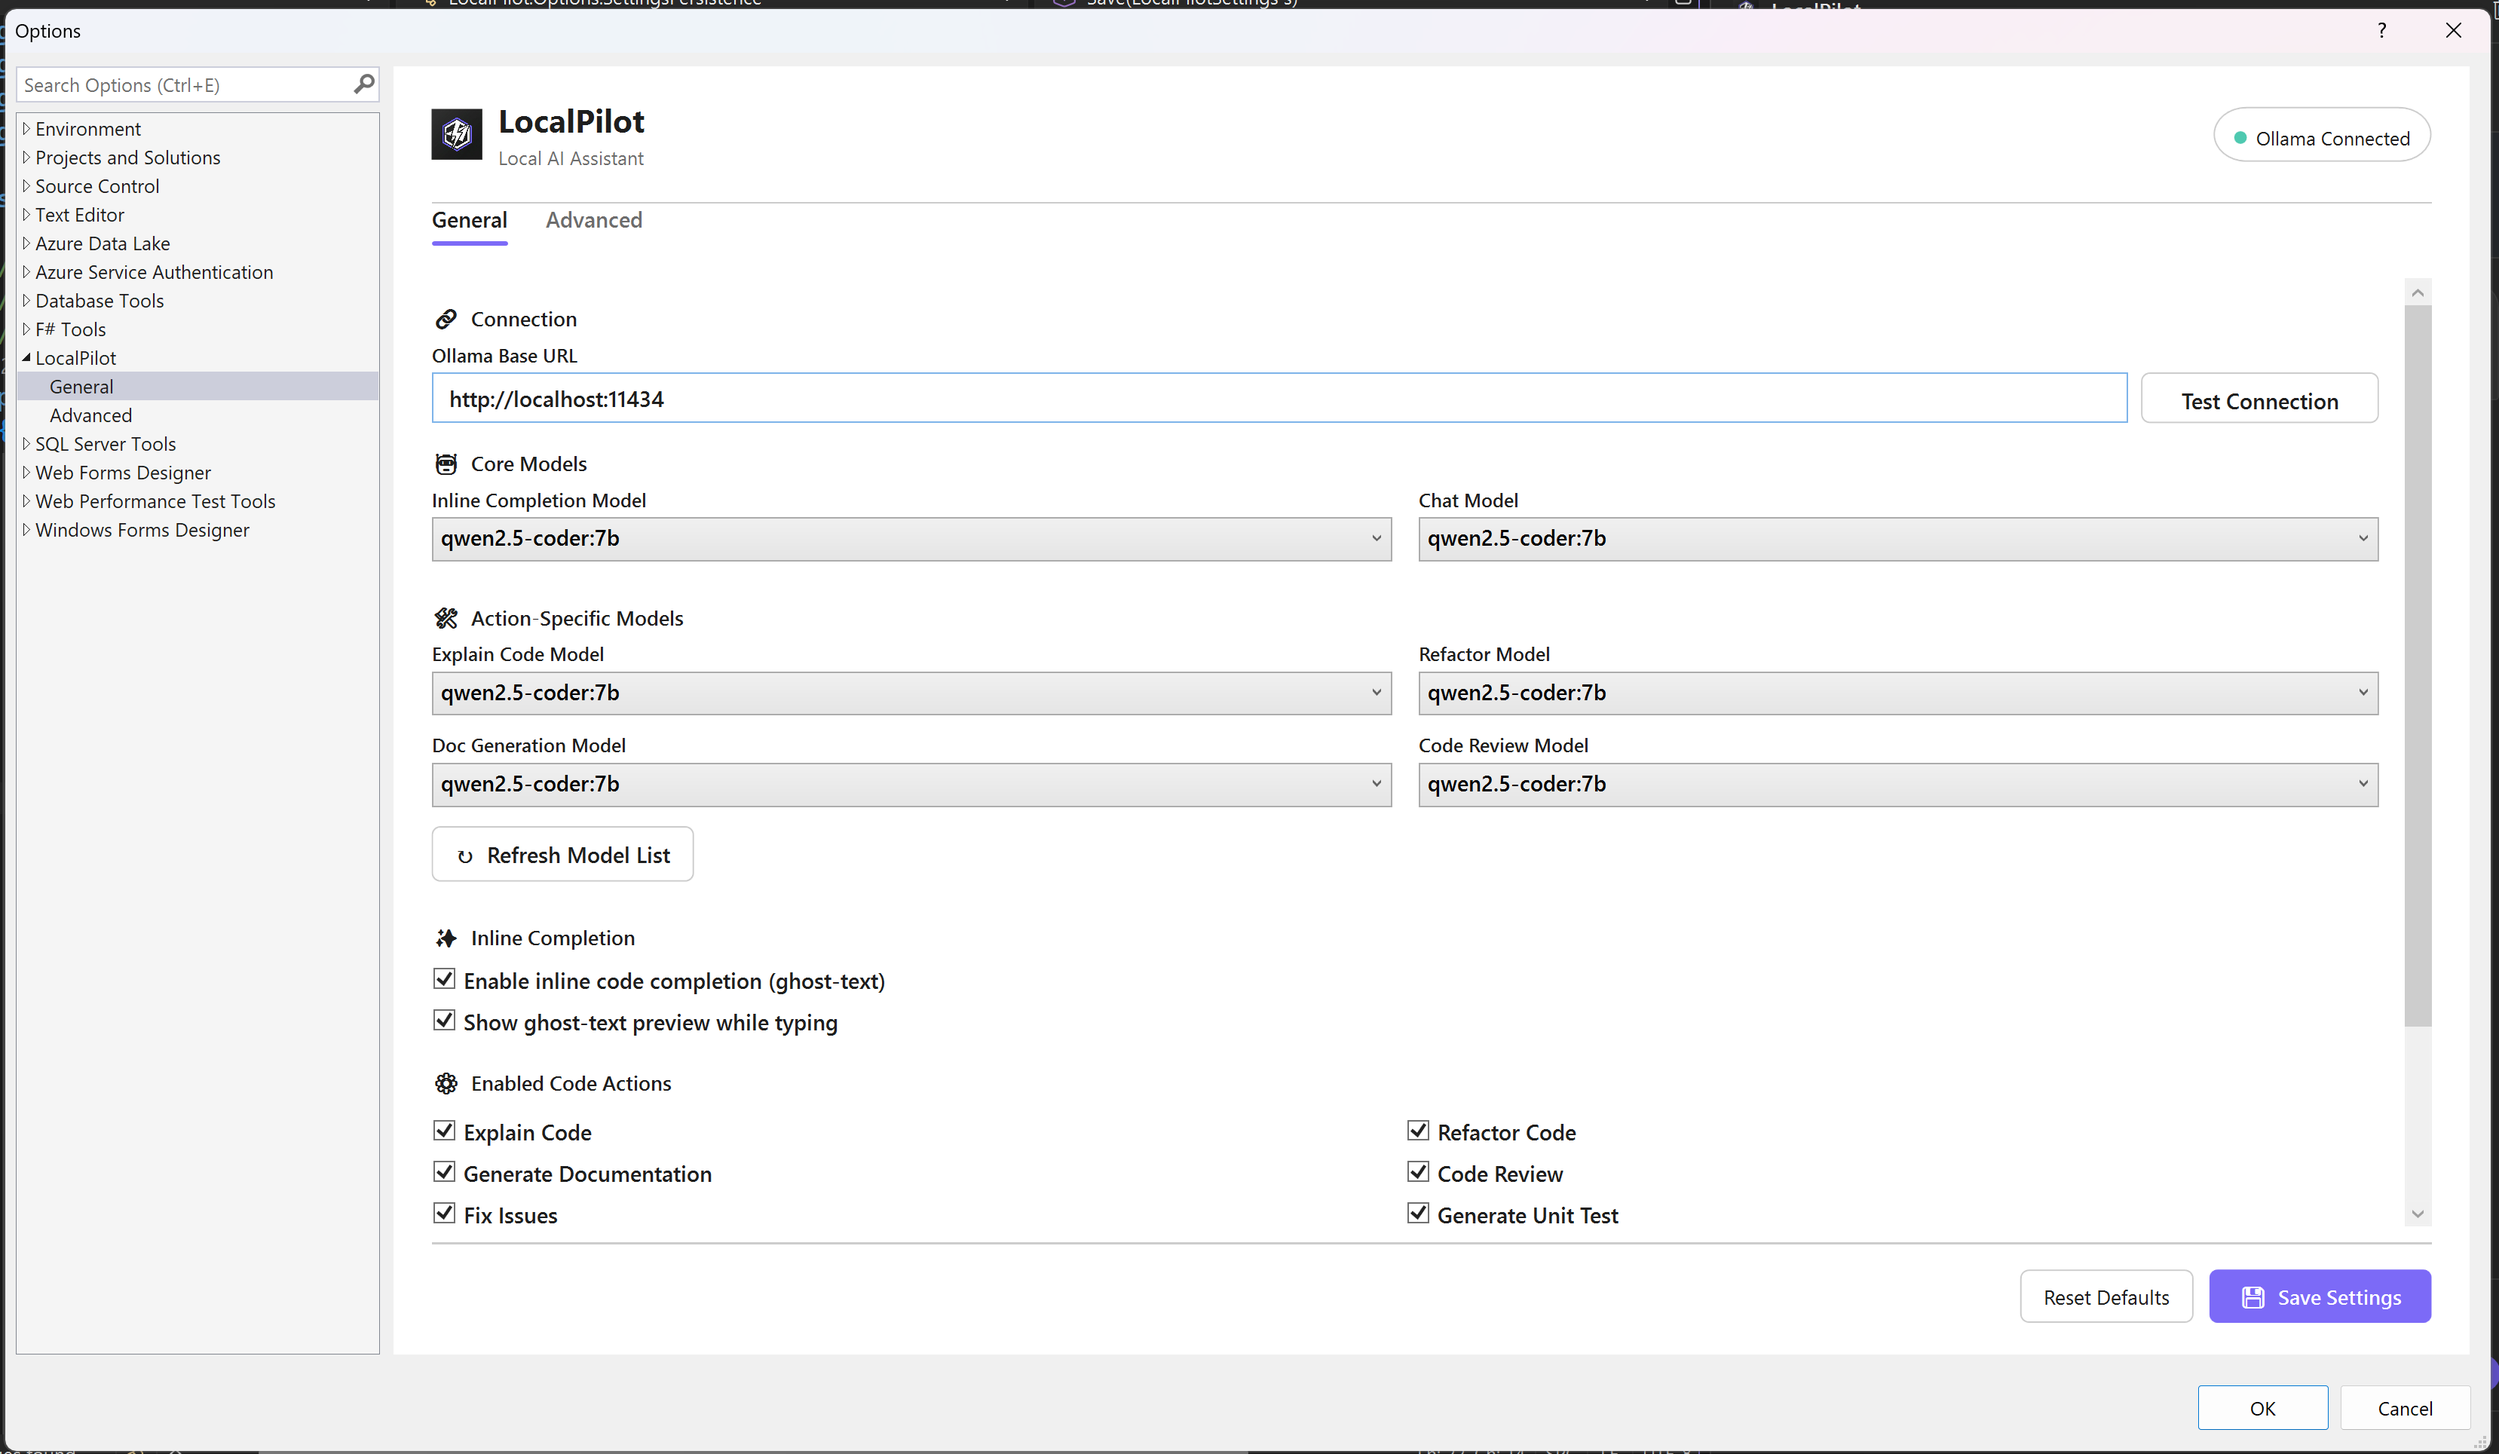
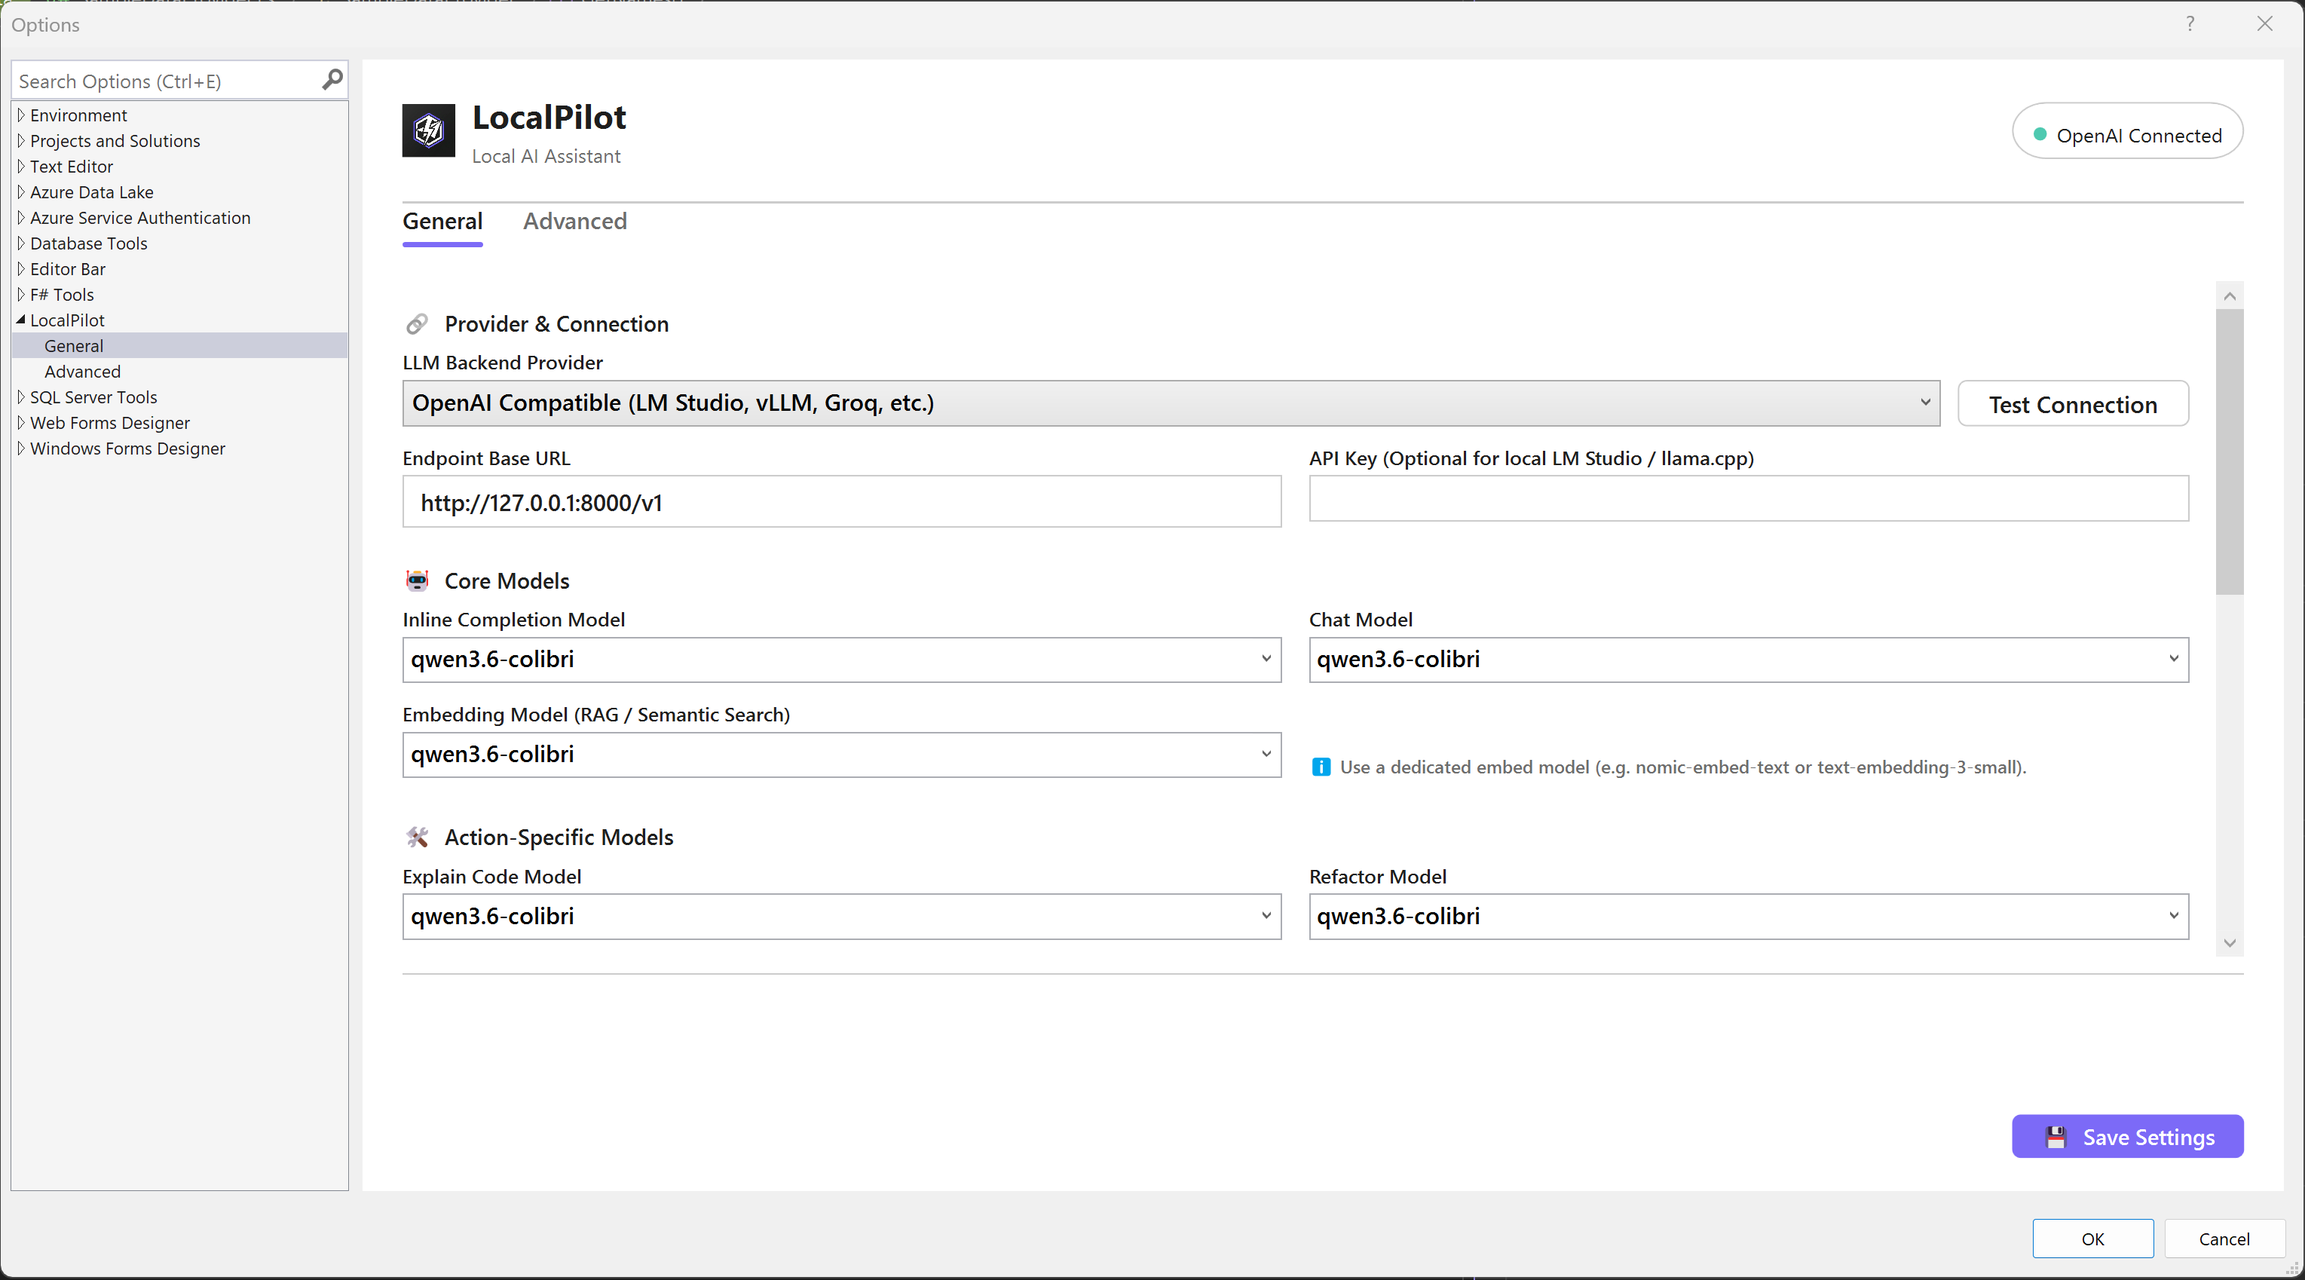
Release notes and other updates

diff --git a/LocalPilot/Properties/AssemblyInfo.cs b/LocalPilot/Properties/AssemblyInfo.cs
@@ -29,5 +29,5 @@ using System.Runtime.InteropServices;
 // You can specify all the values or you can default the Build and Revision Numbers 
 // by using the '*' as shown below:
 // [assembly: AssemblyVersion("1.0.*")]
-[assembly: AssemblyVersion("1.9.5.0")]
-[assembly: AssemblyFileVersion("1.9.5.0")]
+[assembly: AssemblyVersion("2.0.0.0")]
+[assembly: AssemblyFileVersion("2.0.0.0")]

diff --git a/README.md b/README.md
@@ -3,7 +3,7 @@
   <h1>LocalPilot</h1>
   <p align="center">
     <strong>The Privacy-First AI Pair Programmer for Visual Studio.</strong><br />
-    Bringing the power of local LLMs directly into your IDE with Ollama.
+    Bringing local &amp; OpenAI-compatible LLMs (Ollama, LM Studio,  vLLM, llama.cpp, OpenAI) directly into your IDE.
   </p>
 
   <p align="center">
@@ -14,10 +14,10 @@
       <img src="https://img.shields.io/badge/License-MIT-blue.svg" alt="License: MIT" />
     </a>
     <a href="https://ollama.com">
-      <img src="https://img.shields.io/badge/Ollama-Compatible-orange.svg" alt="Ollama Support" />
+      <img src="https://img.shields.io/badge/Ollama_%26_OpenAI_Compatible-orange.svg" alt="Multi-Provider Support" />
     </a>
     <a href="https://visualstudio.microsoft.com/">
-      <img src="https://img.shields.io/badge/Visual_Studio-2022-purple.svg" alt="Visual Studio" />
+      <img src="https://img.shields.io/badge/Visual_Studio-2022%20%2B-purple.svg" alt="Visual Studio" />
     </a>
   </p>
 </div>
@@ -26,7 +26,7 @@
 
 ## 🌟 Overview
 
-**LocalPilot** is a powerful Visual Studio extension that integrates local Large Language Models (LLMs) via [Ollama](https://ollama.com). It provides a seamless, high-performance coding experience without the need for cloud-based subscriptions or data privacy concerns.
+**LocalPilot** is a high-performance Visual Studio extension that integrates local and OpenAI-compatible Large Language Models — including **[Ollama](https://ollama.com)**, **LM Studio**, **vLLM**, **llama.cpp**, and **OpenAI** (`gpt-4o`, `gpt-5`, `o1`/`o3`/`o4`). It delivers inline ghost-text completions, an agentic AI chat panel, inline editor diffs, and native `Ctrl+.` lightbulb actions with full local privacy.
 
 <p align="center">
   <img src="LocalPilot/Assets/Showcase_Mockup.png" width="800" height="450" alt="LocalPilot Showcase" />
@@ -71,7 +71,7 @@
       <h3>✨ Ghost-Text & Performance</h3>
       <ul style="list-style-type: none; padding-left: 0;">
         <li>🚀 <strong>Real-time Suggestions</strong>: Zero-latency inline code completions.</li>
-        <li>🏠 <strong>100% Local</strong>: Your code never leaves your workstation.</li>
+        <li>🏠 <strong>Local-First, Cloud-Optional</strong>: Run 100% offline locally, or connect your own OpenAI-compatible API.</li>
         <li>⚡ <strong>Optimized</strong>: Designed for minimal impact on IDE performance.</li>
       </ul>
     </td>
@@ -84,19 +84,20 @@
 
 ## 🛡 Why LocalPilot?
 
-- **🔒 Absolute Privacy**: Your source code stays on your machine. No telemetry, no cloud hooks, no data leakage. Perfect for enterprise and sensitive projects.
-- **⚡ Zero Latency**: No waiting for cloud API responses. Local inference provides near-instantaneous completions.
-- **💰 One-time Setup, Zero Cost**: No recurring subscriptions. Use the power of your own hardware to fuel your development.
-- **🎨 Native Experience**: Designed to feel like a built-in Visual Studio feature, supporting both Light and Dark themes natively.
+- **🔒 Local-First Privacy (No Telemetry)**: LocalPilot itself collects zero telemetry. When paired with local backends (Ollama, LM Studio,  llama.cpp), your source code never leaves your machine—ideal for air-gapped and sensitive projects.
+- **🔌 Flexible Backends (Local or Cloud)**: Use local GPUs for offline speed and zero cost, or optionally plug in your own OpenAI / OpenAI-compatible endpoint and API key whenever you need cloud-scale models.
+- **⚡ Built for Speed**: Native FIM completions, Roslyn AST skeletonization, line-numbered edits, and SQLite indexing keep context lean and responses fast.
+- **🎨 Native Experience**: Designed to feel like a built-in Visual Studio feature—with inline editor diffs, `Ctrl+.` lightbulb actions, and native Light/Dark theme support.
 
 ---
 
 ## 🛠 Getting Started
 
 ### 1⃣ Prerequisites
-You must have **Ollama** installed and running on your machine.
-- **Download**: [ollama.com](https://ollama.com)
-- **Launch a Model**: We recommend agentic, code-centric models like `qwen2.5-coder` or `llama3.1`.
+Run any supported local or OpenAI-compatible backend:
+- **Ollama**: [ollama.com](https://ollama.com) (`http://localhost:11434`)
+- **LM Studio /  vLLM / llama.cpp**: Enable the OpenAI-compatible server (e.g., `http://localhost:1234/v1` or `http://127.0.0.1:8000/v1`)
+- **OpenAI API**: `https://api.openai.com/v1` with your API key
   ```bash
   ollama run qwen2.5-coder:7b
   ```
@@ -109,14 +110,14 @@ You must have **Ollama** installed and running on your machine.
 
 ### 3⃣ Configuration
 Navigate to **Tools > Options > LocalPilot > Settings**.
-1. **Ollama Base URL**: Usually `http://localhost:11434`. Click **"Test Connection"** to verify.
-2. **Model Assignments**: Assign preferred models for **Chat** and **Inline Completions**.
+1. **Provider & Endpoint URL**: Choose **Ollama** (`http://localhost:11434`) or **OpenAI-Compatible** (LM Studio `http://localhost:1234/v1`,  or OpenAI `https://api.openai.com/v1` + optional API key). Click **"Test Connection"** to verify.
+2. **Model Assignments**: Assign preferred models for **Chat**, **Inline Completions**, and specialized actions.
 
 > [!TIP]
-> For the best experience in **v1.9**, we recommend:
-> - **Chat/Logic**: `qwen2.5-coder:7b` or `llama3.1:8b` (Excellent reasoning & tool use).
-> - **Inline Completions**: `starcoder2:3b` or `phi3:mini` (Lowest latency).
-> - **Embedding / RAG**: `nomic-embed-text` or `mxbai-embed-large` **(CRITICAL: You MUST configure an embedding model here to unlock powerful AI-driven semantic codebase search. If left blank, LocalPilot falls back to basic keyword search.)**
+> For the best experience in **v2.0**, we recommend:
+> - **Chat/Logic**: `qwen2.5-coder:7b` or `llama3.1:8b` (Excellent reasoning & tool use, fits comfortably in 4–8GB VRAM).
+> - **Inline Completions**: `qwen2.5-coder:1.5b` or `starcoder2:3b` (Native FIM support & lowest latency).
+> - **Embedding / RAG**: `nomic-embed-text` or `mxbai-embed-large` *(Optional — if unsupported by your endpoint, LocalPilot caches that capability and falls back cleanly to keyword search.)*
 
 ---
 
@@ -169,7 +170,7 @@ We welcome community contributions! Whether it's bugs, features, or documentatio
 
 ## 💻 Hardware Requirements
 
-Since **LocalPilot** runs Large Language Models (LLMs) **entirely on your local machine** via Ollama, your hardware performance directly impacts the speed and responsiveness of AI suggestions.
+Since **LocalPilot** can run Large Language Models (LLMs) **locally on your machine** (via Ollama, LM Studio  or llama.cpp), your hardware directly impacts local inference speed (or you can connect a remote OpenAI / OpenAI-compatible endpoint if your workstation has limited VRAM).
 
 ### 🏁 Minimum Requirements
 *   **CPU**: Recent Multi-core processor (Intel i5/AMD Ryzen 5 or equivalent).
@@ -189,7 +190,20 @@ Since **LocalPilot** runs Large Language Models (LLMs) **entirely on your local 
 
 ## 📜 Release History
 
-### 🚀 v1.9.5 - The Accessibility & Resiliency Update (latest)
+### 🚀 v2.0.0 - The Multi-Provider, Inline Diff & Performance Update (latest)
+**"Full OpenAI-compatible support, inline editor diffs, native Ctrl+. Lightbulb actions, and ultra-lean local inference."**
+
+- **🔌 Multi-Provider & Full OpenAI Model Compatibility**: Seamless support for **Ollama**, **LM Studio**, **vLLM**, **llama.cpp**, and **OpenAI** (`gpt-4o`, `gpt-4.1`, `gpt-5`, `o1`, `o3`, `o4-mini`), including proactive `max_completion_tokens`/`temperature` handling, adaptive HTTP 400 parameter negotiation, and human-readable error formatting.
+- **🎨 Inline Editor Diff Adornments (`✓ Keep` / `✕ Undo`)**: Added `InlineDiffService` and MEF-exported `LocalPilotInlineDiff` editor adornments to highlight added/modified lines directly inside Visual Studio with per-hunk **Keep / Undo** controls.
+- **💡 Native Visual Studio Lightbulb (`Ctrl+.`) Integration**: Added `ISuggestedActionsSourceProvider` (`LocalPilotSuggestedActionsProvider`) surfacing **Fix with LocalPilot**, **Refactor with LocalPilot**, and **Generate Unit Tests with LocalPilot** directly on red squiggles and code blocks—executing headlessly without switching to the chat pane.
+- **↺ One-Click Turn Checkpoint & Revert**: Added `TurnCheckpointService` to snapshot pre-turn file states (including deleting newly created files on revert) with a **`↺ Revert Turn`** button on completed agent turn badges.
+- **⚡ Ultra-Lean Fast Mode & Line-Numbered Edits (`edit_lines`)**: Added `EditLinesTool` with in-memory Roslyn pre-flight syntax validation (`ValidateCSharpSyntax`), `CodeSkeletonizer.SkeletonizeWithLineNumbers` (preserving exact 1-based line numbers), 2-zone sliding history, live tool-call streaming throughput (`tok/s`), per-chunk stream inactivity watchdogs, and a non-blocking SSD-offload warning banner (`< 5 tok/s`).
+- **🎛 In-Chat Model Switcher ([#46](https://github.com/FutureStackSolution/LocalPilot/issues/46))**: Added a quick model selector dropdown directly inside the Chat toolbar, with placeholder guards so unconfigured `(No models found)` states are never sent to the API.
+- **🔧 Auto-Fix on Build Failure Toggle & Settings Hardening ([#50](https://github.com/FutureStackSolution/LocalPilot/issues/50), [#49](https://github.com/FutureStackSolution/LocalPilot/issues/49))**: Added the `Auto-Fix on Build Failure` option, configurable `KeepAliveDuration` (`15m` default), unload-models/connection resiliency, and fixed Options Cancel-save behavior.
+- **🛡 Agent Tool Execution, Custom GGUF & UI Layout Fixes ([#51](https://github.com/FutureStackSolution/LocalPilot/issues/51), [#54](https://github.com/FutureStackSolution/LocalPilot/issues/54), [#47](https://github.com/FutureStackSolution/LocalPilot/issues/47))**: Hardened `AgentOrchestrator`/`ToolRegistry` path and edit execution, added `HTTP 500` tool-template fallback for custom GGUF modelfiles, upgraded live markdown & Quick-Action card rendering, and refined chat layout/scroll behavior.
+- **🗄 SQLite Packaging & Full-Repo Stability Hardening ([#53](https://github.com/FutureStackSolution/LocalPilot/issues/53))**: Hardened SQLite WAL/SHM reset cleanup and packaging, debounced `FileSystemWatcher` startup storms, persisted `/v1/embeddings` capability checks, and resolved Roslyn, Nexus, `InlineCompletionController` per-tab isolation, and UI-thread lifecycle bugs.
+
+### 🚀 v1.9.5 - The Accessibility & Resiliency Update
 **"Dynamic font zoom, self-contained SQLite integration, and robust database parsing."**
 
 - **🔍 Zoom & Font Scaling Support ([#44](https://github.com/FutureStackSolution/LocalPilot/issues/44))**: Resolved accessibility and text sizing issues. The Chat window now integrates seamlessly with Visual Studio environment fonts and supports interactive dynamic zoom via `Ctrl + Mouse Wheel`.
@@ -217,7 +231,7 @@ Since **LocalPilot** runs Large Language Models (LLMs) **entirely on your local 
 **"Seamless SQLite storage, legacy-free architecture, and hardened stability."**
 
 > [!IMPORTANT]
-> **Breaking Architectural Change**: v1.9 completely replaces the legacy JSON-based indexing system with a high-performance **SQLite Persistent Storage Engine**. 
+> **Breaking Architectural Change**: v1.9 completely replaces the legacy JSON-based indexing system with a high-performance **SQLite Persistent Storage Engine**.
 > - **Automatic Migration**: Upon first launch, LocalPilot will automatically migrate your `.localpilot/index.json` and `nexus.json` data into the new SQLite database and delete the old files.
 > - **Zero Latency**: This move eliminates IDE "stutters" during saves and allows LocalPilot to handle massive codebases with near-zero memory overhead.
 
